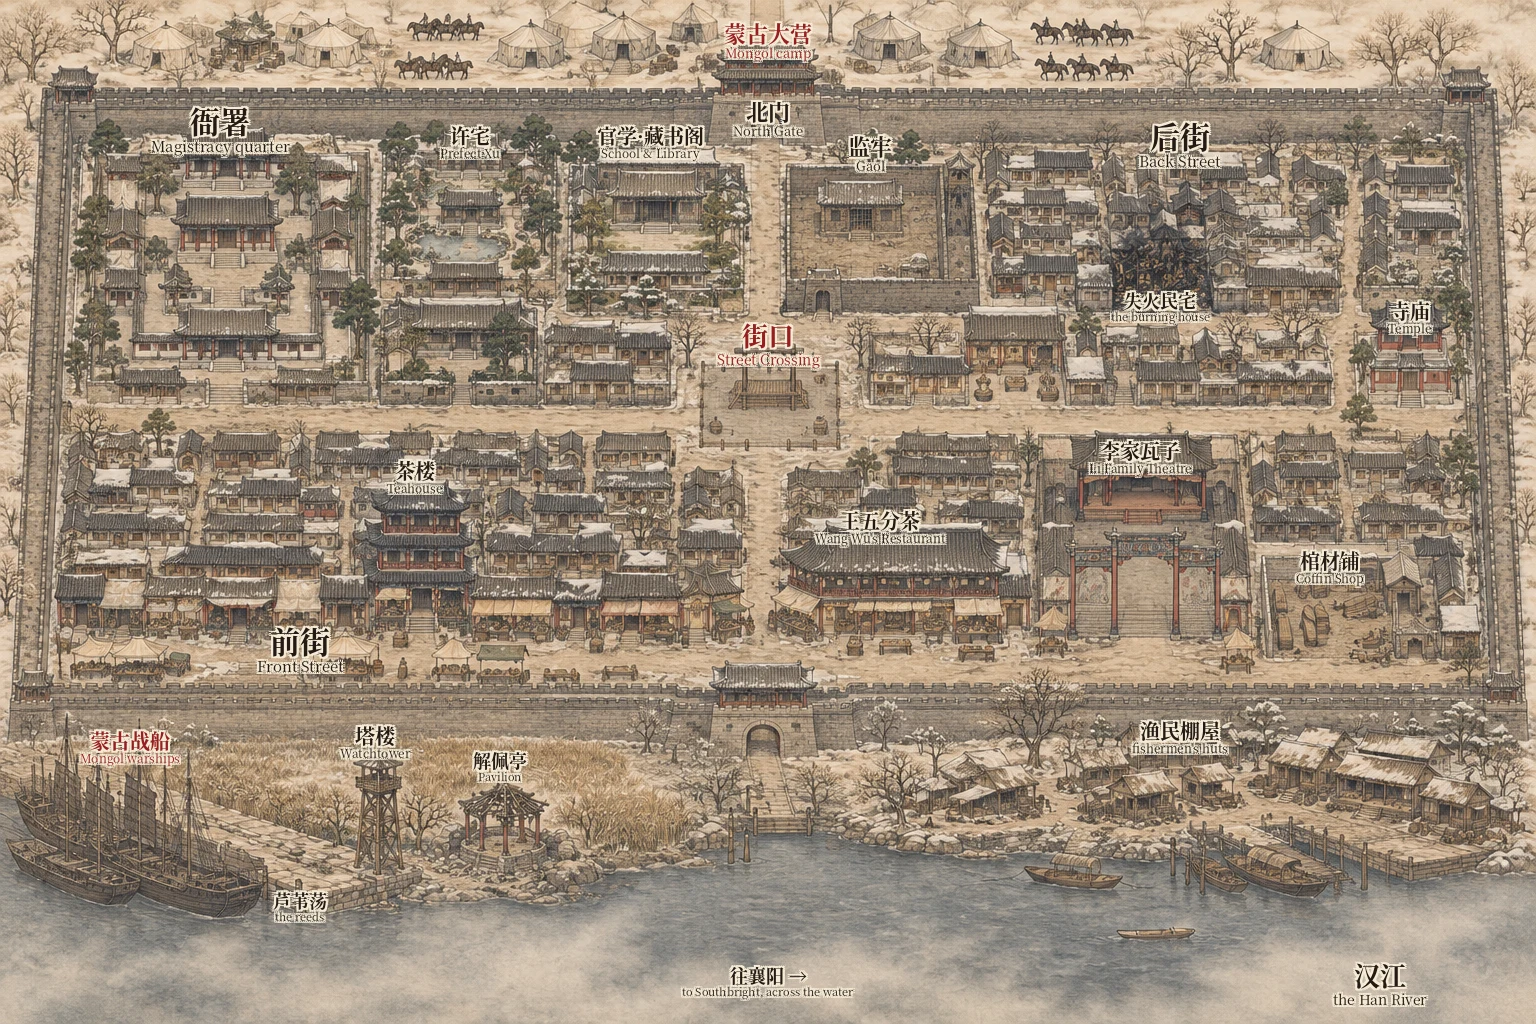
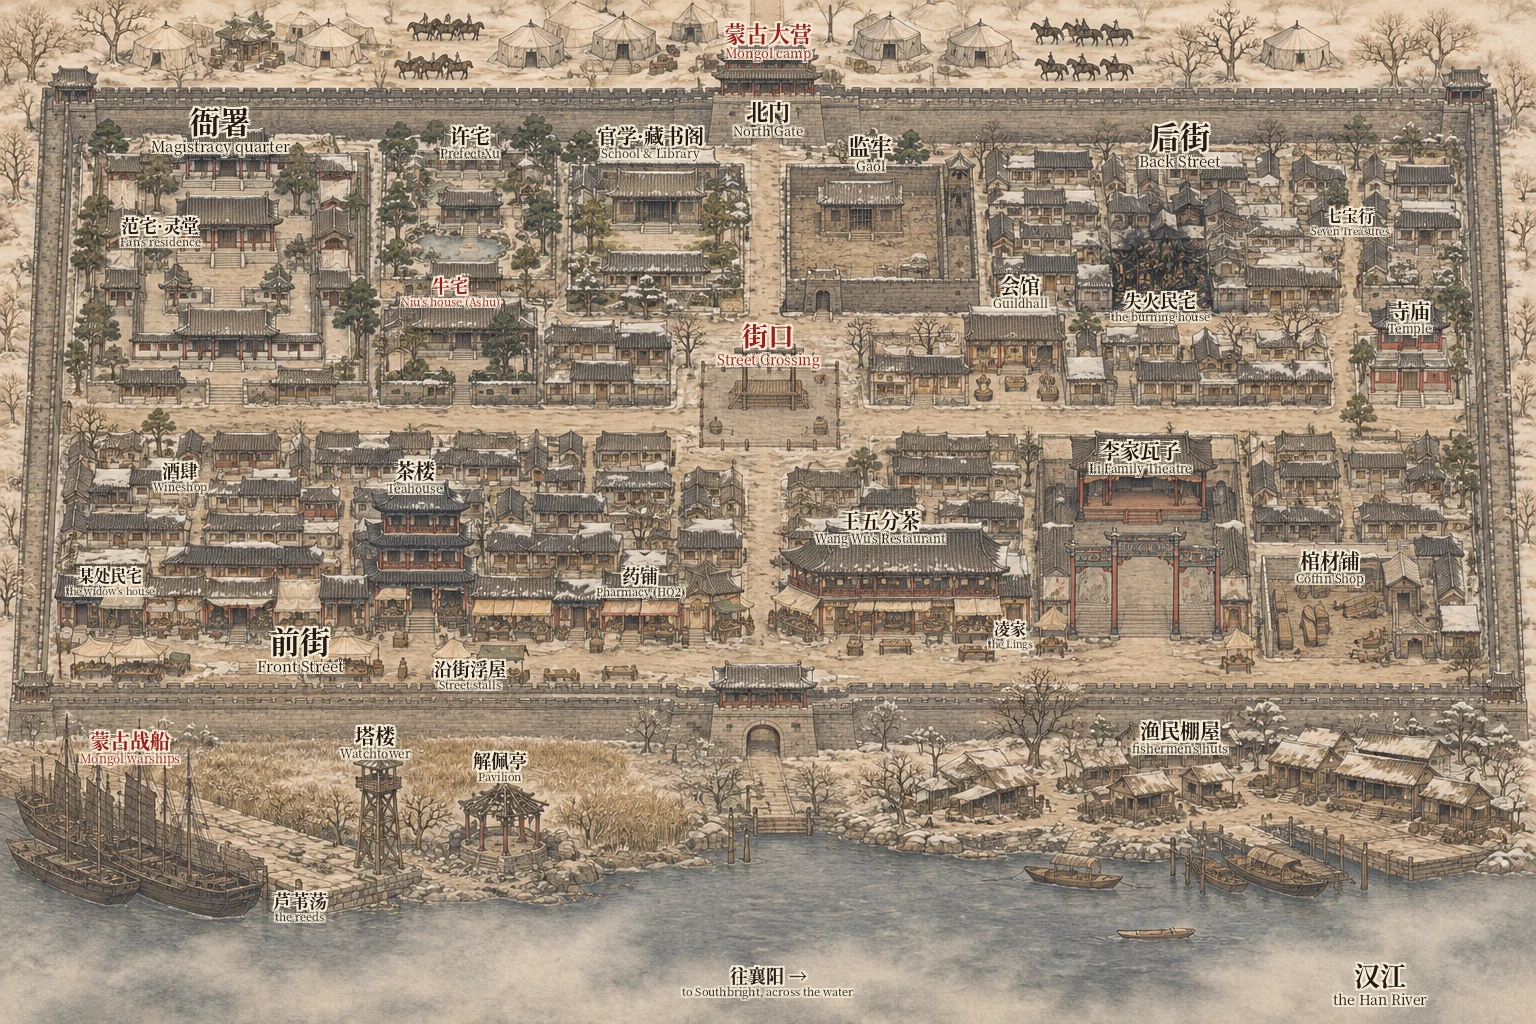
Town map: label the street stalls, pharmacy, Wineshop, the Lings, the widow's house, Guildhall, Seven Treasures, Fan's residence, Niu's house (v0.6.2)

diff --git a/build/build.py b/build/build.py
@@ -399,7 +399,7 @@ adv['_key'] = f"!adventures!{adv['_id']}"
 # Shipped as plain JSON (no LevelDB pack): scripts/update.mjs imports it directly, so `git pull` always delivers the content.
 json.dump(adv, open(f'{ROOT}/adventure.json', 'w'), ensure_ascii=False, indent=1)
 modj = {'id': MOD, 'title': '公若渡河 Session 0 (CoC7, bilingual)', 'description': 'Session-0 kit for the wuxia Call of Cthulhu scenario 公若渡河 by 江涔: pre-built investigators, scenes, GM runbook and bilingual Chinese/English handouts. For private use at your own table.',
-        'version': '0.6.1', 'esmodules': ['scripts/update.mjs'], 'url': 'https://github.com/chunfortam/--foundary', 'compatibility': {'minimum': '12', 'verified': '14'}, 'authors': [{'name': 'Devin for chunfortam'}],
+        'version': '0.6.2', 'esmodules': ['scripts/update.mjs'], 'url': 'https://github.com/chunfortam/--foundary', 'compatibility': {'minimum': '12', 'verified': '14'}, 'authors': [{'name': 'Devin for chunfortam'}],
         'relationships': {'systems': [{'id': 'CoC7', 'type': 'system', 'compatibility': {'minimum': '8'}}]},
         'styles': ['styles/gongruo.css']}
 json.dump(modj, open(f'{ROOT}/module.json', 'w'), ensure_ascii=False, indent=2)
